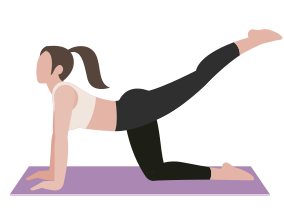
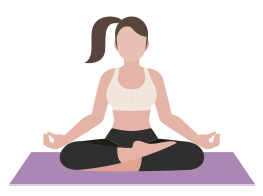
add graphic to contact page

diff --git a/src/scenes/contactUs/index.tsx b/src/scenes/contactUs/index.tsx
@@ -9,7 +9,7 @@ type Props = {
 }
 
 const ContactUs = ({ setSelectedPage }: Props) => {
-    const inputStyles = `mt-5 w-full rounded-lg bg-primary-300 px-5 py-3 placeholder-white`;
+    const inputStyles = `mt-5 w-full rounded-lg px-5 py-3 bg-primary-300 placeholder-white`;
 
     const {
         register,
@@ -25,7 +25,7 @@ const ContactUs = ({ setSelectedPage }: Props) => {
     }
 
     return (
-        <section id="contactus" className="bg-primary-100 w-full pt-24 pb-32">
+        <section id="contactus" className=" w-full pt-24 pb-32">
             <div className="w-5/6 mx-auto">
                 <motion.div
                     onViewportEnter={() => setSelectedPage(SelectedPage.ContactUs)}
@@ -139,6 +139,30 @@ const ContactUs = ({ setSelectedPage }: Props) => {
                                     SUBMIT
                                 </button>
                             </form>
+                        </motion.div>
+
+                        <motion.div
+                            className="relative mt-16 basis-2/5 md:mt-0"
+                            initial="hidden"
+                            whileInView="visible"
+                            viewport={{ once: true, amount: 0.5 }}
+                            transition={{ delay: 0.2, duration: 0.6 }}
+                            variants={{
+                                hidden: {
+                                    opacity: 0,
+                                    y: 50
+                                },
+                                visible: {
+                                    opacity: 1,
+                                    y: 0
+                                }
+                            }}
+                        >
+                            <img
+                                className="w-full"
+                                src={ContactPageGraphic}
+                                alt="contact-page-graphic"
+                            />
                         </motion.div>
                     </div>
                 </motion.div>

diff --git a/src/shared/types.ts b/src/shared/types.ts
@@ -2,11 +2,17 @@ export enum SelectedPage {
     Home = "home",
     Benefits = "benefits",
     OurClasses = "ourclasses",
-    ContactUs = "contactus"
+    ContactUs = "contactus",
 }
 
 export interface BenefitType {
     icon: JSX.Element;
     title: string;
     description: string;
+}
+
+export interface ClassType {
+    name: string;
+    description?: string;
+    image: string;
 }

diff --git a/src/shared/HText.tsx b/src/shared/HText.tsx
@@ -1,4 +1,4 @@
-import React, { Children } from 'react'
+import React from 'react'
 
 type Props = {
     children: React.ReactNode;
